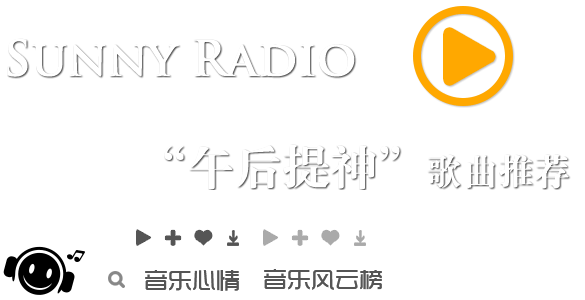
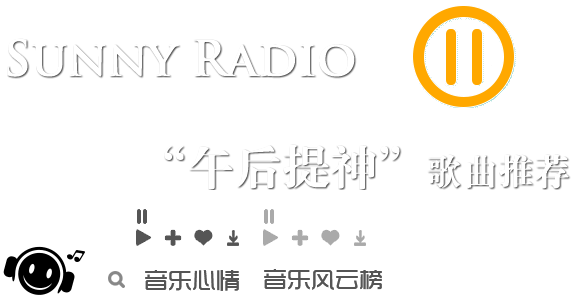
all page play/pause

Changed region(s): [[0.7077, 0.03, 0.8923, 0.36], [0.4308, 0.69, 0.4923, 0.75], [0.2154, 0.69, 0.2769, 0.75]]

diff --git a/js/services.js b/js/services.js
@@ -23,15 +23,19 @@ music.factory('audioService', ['$rootScope', '$interval', function ($rootScope, 
     }
 
     factory.playMusic = function (){
+
         if($rootScope.musicPlay.state){
             audio.pause();
+            audio.autoplay=false;
             $rootScope.musicPlay.state = false;
         }else{
+            audio.src = $rootScope.musicPlay.url;
             audio.play();
+            audio.autoplay=true;
             endCheck();
             $rootScope.musicPlay.state = true;
         }
-    }
+    };
 
     factory.nextSong = function (){
         audio.src = $rootScope.musicPlay.url;

diff --git a/tpl/home.html b/tpl/home.html
@@ -48,7 +48,7 @@
                             <span>{{music.searchNum}}</span>
                         </p>
                         <p class="fun-icon">
-                            <span class="icon-play icon" ng-click="musicPlay.play(music)"></span>
+                            <span class="icon-play icon" ng-class="{'icon-pause':musicPlay.state}" ng-click="musicPlay.play(music)"></span>
                             <span class="icon-plus icon"></span>
                             <span class="icon-love icon"></span>
                             <span class="icon-download icon"></span>

diff --git a/js/controllers.js b/js/controllers.js
@@ -15,7 +15,8 @@ music.controller('MusicCtrl', ['$scope', '$rootScope', '$interval', 'audioServic
             //this.id = music.id;
             //this.img = music.img;
             $rootScope.musicPlay.url = music.url;
-            audioService.nextSong();
+            // audioService.nextSong();
+            audioService.playMusic();
         }
     };
 }]);

diff --git a/css/index.css b/css/index.css
@@ -241,6 +241,9 @@ body{
 	margin-left: 0px;
 	background: url('../images/icon.png') -263px -229px;
 }
+.icon-pause{
+    background: url('../images/icon.png') -263px -209px;
+}
 .icon-plus{
 	background: url('../images/icon.png') -293px -230px;
 }
